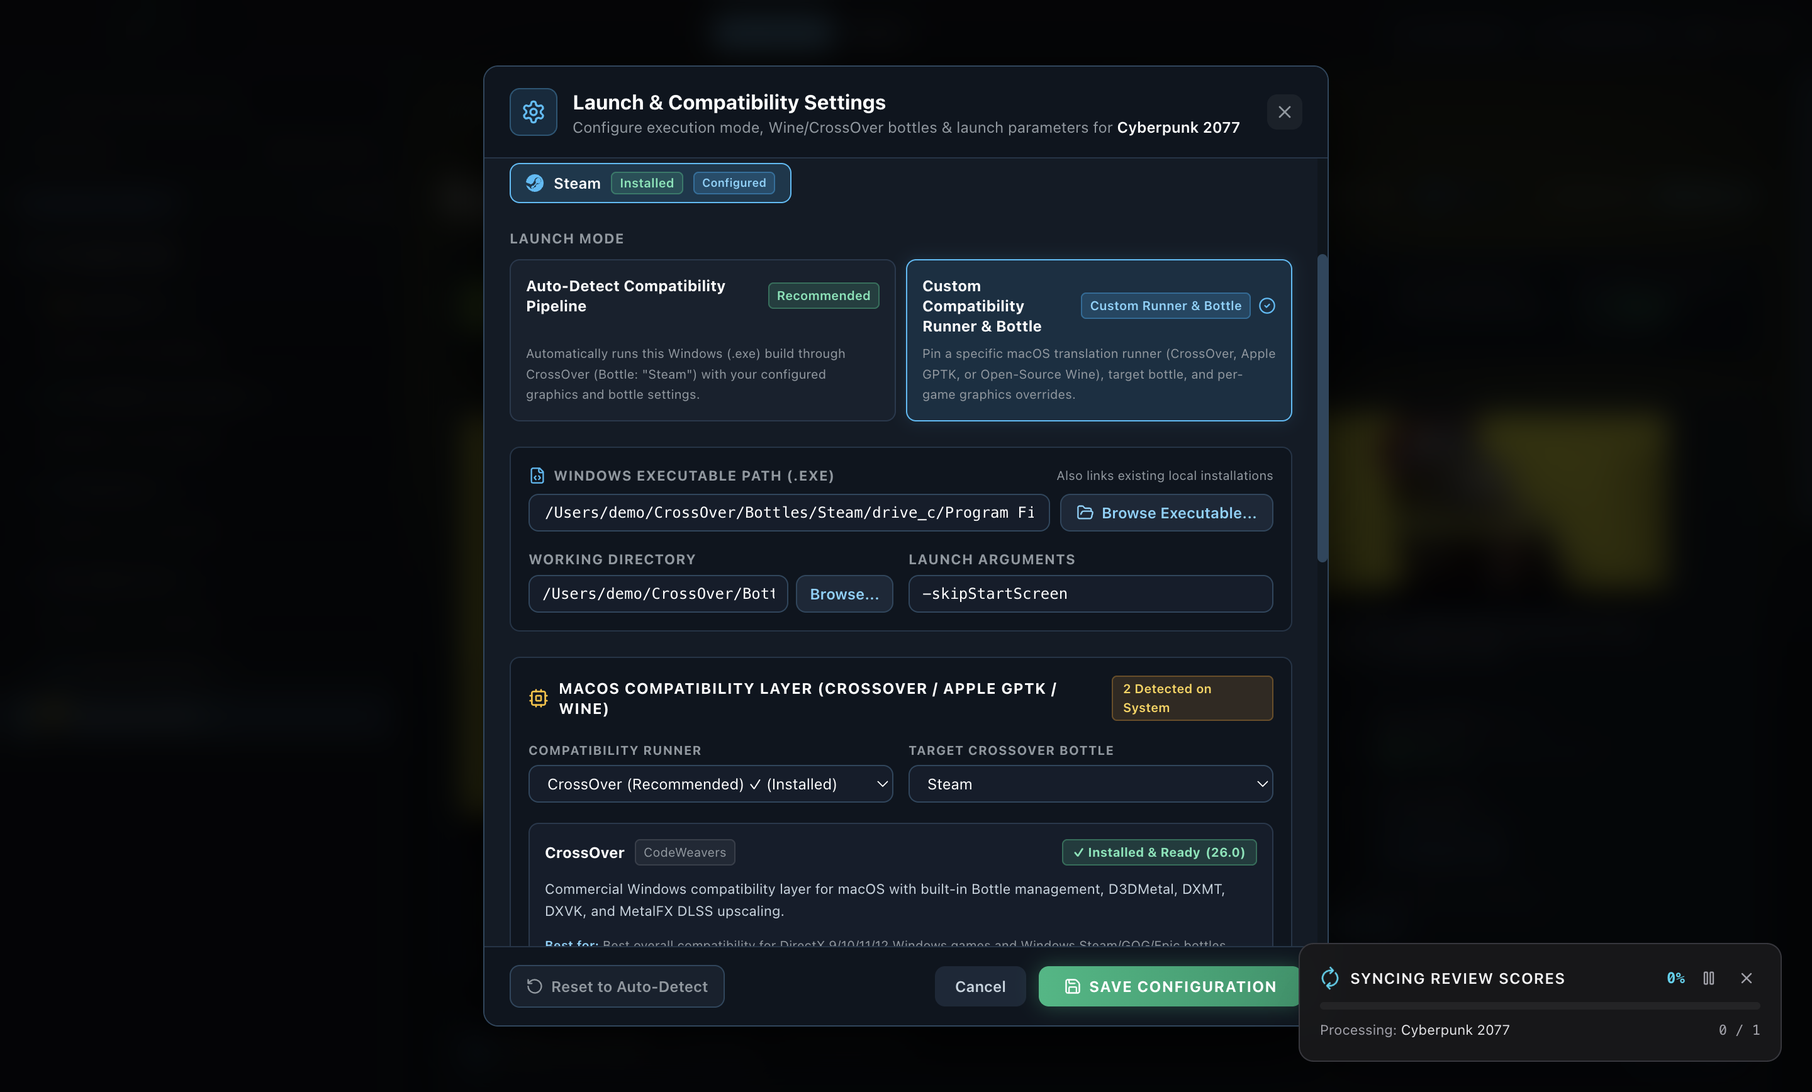
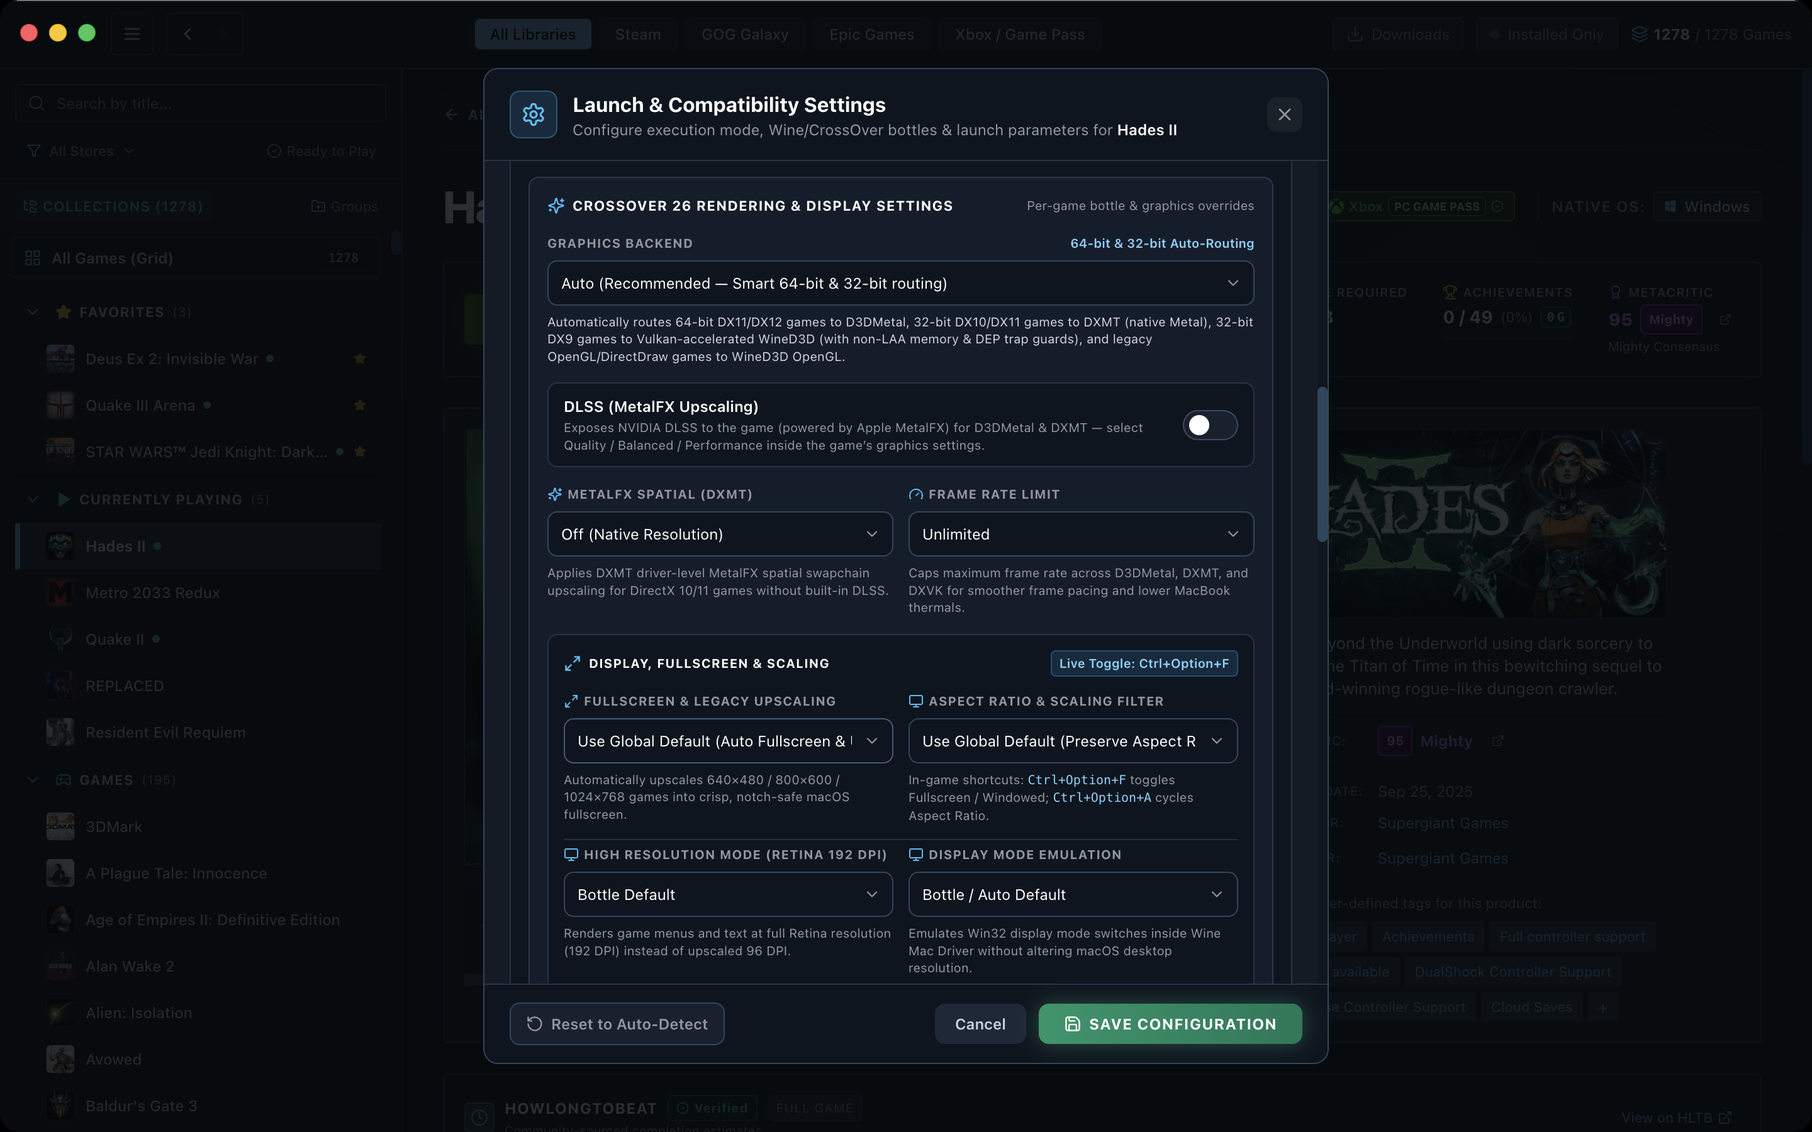
docs: rewrite end-user README for v0.2.7 with sanitized UI screenshots

diff --git a/README.md b/README.md
@@ -1,159 +1,118 @@
 <div align="center">
-  <img src="public/icon.png" alt="One Launcher Logo" width="128" height="128" />
+  <img src="public/icon.png" alt="One Launcher" width="120" height="120" />
 
   # One Launcher
 
-  **Your Unified Dual-OS PC & Mac Game Library — Steam, GOG.com, Epic Games Store, Xbox / PC Game Pass & Custom Games on macOS (Native + Bottled CrossOver / GPTK / Wine) & Windows (Native)**
+  **All of your PC and Mac games in one place — Steam, GOG, Epic Games, Xbox / PC Game Pass, and local installs.**
 
-  [![macOS Apple Silicon](https://img.shields.io/badge/macOS-Apple_Silicon_(arm64)-000000?style=for-the-badge&logo=apple&logoColor=white)](#installation--quick-start)
-  [![Windows x64](https://img.shields.io/badge/Windows-10_%2F_11_(x64)-0078D6?style=for-the-badge&logo=windows&logoColor=white)](#installation--quick-start)
-  [![CrossOver 26 Ready](https://img.shields.io/badge/CrossOver_26-D3DMetal_%7C_DXMT_%7C_DLSS-10B981?style=for-the-badge)](#2-crossover-26--wine-compatibility)
-  [![Storefronts](https://img.shields.io/badge/Storefronts-Steam_%7C_GOG_%7C_Epic_%7C_Xbox_%7C_Custom-3B82F6?style=for-the-badge)](#1-unified-multi-storefront-library)
+  [![Download v0.2.7](https://img.shields.io/badge/Download-v0.2.7-2563EB?style=for-the-badge)](https://github.com/Space-Cadet0/One-Launcher/releases/tag/v0.2.7)
+  [![macOS Apple Silicon](https://img.shields.io/badge/macOS-Apple_Silicon-000000?style=for-the-badge&logo=apple&logoColor=white)](#download--install)
+  [![Windows 10/11](https://img.shields.io/badge/Windows-10_%2F_11-0078D6?style=for-the-badge&logo=windows&logoColor=white)](#download--install)
 </div>
 
 ---
 
-**One Launcher** brings all of your PC and Mac games together into a single, fast, cinema-grade desktop application across **macOS (Native Apple Silicon + Bottled CrossOver 26, Apple Game Porting Toolkit (GPTK), and Open-Source Wine)** and **Windows 10/11 (Native x64)**. Whether your library lives across **Steam**, **GOG.com**, **Epic Games Store**, **Xbox / PC Game Pass**, or custom local folders, One Launcher unifies your collection with automatic artwork, Metacritic & OpenCritic ratings, HowLongToBeat completion times, unified achievement tracking, and one-click launching.
+If your games are split across Steam, GOG, Epic, Xbox / PC Game Pass, and a handful of standalone folders, it gets annoying fast trying to remember where you own something or which launcher actually has it installed.
+
+One Launcher pulls your whole collection into a single desktop app for **macOS (Apple Silicon)** and **Windows 10/11**. It tracks what you own, merges duplicates across stores, downloads artwork, critic scores, and HowLongToBeat times, and lets you launch Mac-native games, Windows games on PC, or Windows games on Mac through CrossOver, Apple Game Porting Toolkit, or Wine.
 
 ---
 
-## Visual Showcase
+## Download & Install
 
-### Unified Library Grid & Custom Collections
-![One Launcher Unified Library Overview](docs/screenshots/library-overview.png)
-*Browse your entire collection across Steam, GOG.com, Epic Games Store, Xbox / PC Game Pass, and custom games in a high-density vertical box-art grid with live Metacritic/OpenCritic badges, multi-storefront ownership indicators, instant punctuation-tolerant search, and custom sidebar collections.*
+Grab the latest installers from the **[v0.2.7 Release page](https://github.com/Space-Cadet0/One-Launcher/releases/tag/v0.2.7)**.
 
-### Rich Game Detail View
-![One Launcher Game Detail View — Media Gallery & Multi-Storefront Switcher](docs/screenshots/game-detail.png)
-*High-resolution screenshot galleries and trailers, playtime, achievement mastery progress, active CrossOver/Wine compatibility pipeline status, and switch between owned storefront editions (`Steam`, `GOG.com`, `Epic Games`, `Xbox`) right next to the **PLAY** button.*
+### macOS (Apple Silicon, macOS 13 or newer)
+1. Download **`One Launcher-0.2.7-arm64.dmg`** from the [v0.2.7 release](https://github.com/Space-Cadet0/One-Launcher/releases/tag/v0.2.7).
+2. Open the disk image and drag **One Launcher** into your **Applications** folder.
+3. Because the app isn't notarized with an Apple Developer subscription yet, macOS Gatekeeper may warn you on first launch. Right-click **One Launcher** in Applications and choose **Open**, or run this in Terminal:
+   ```bash
+   xattr -cr "/Applications/One Launcher.app"
+   ```
 
-![One Launcher Game Detail View — About This Game, HowLongToBeat & Critic Consensus](docs/screenshots/game-detail-about.png)
-*Scroll down on any game page for **HowLongToBeat** completion estimates (Main Story, Main + Sides, Completionist, All Styles), **Metacritic & OpenCritic** review consensus cards, rich HTML **About This Game** descriptions with inline media, **System Requirements**, storefront capability badges, and accurate 3-column **Supported Languages** matrices (`Interface`, `Full Audio`, `Subtitles`).*
+### Windows (Windows 10 / 11, 64-bit)
+- Download and run **`One Launcher Setup 0.2.7.exe`** from the [v0.2.7 release](https://github.com/Space-Cadet0/One-Launcher/releases/tag/v0.2.7).
+- If you ever want a clean removal later, **`One Launcher Full Uninstaller.exe`** is also attached to the same release.
 
-### CrossOver 26 & macOS Compatibility Launch Settings
-![CrossOver 26 and Launch Compatibility Settings](docs/screenshots/crossover-launch-settings.png)
-*Configure per-game and per-storefront launch profiles. Automatically detects Windows `.exe` installations inside CrossOver 26, Apple Game Porting Toolkit (GPTK), or Open-Source Wine bottles and gives you per-game controls for Graphics Backend (`Auto`, `D3DMetal`, `DXMT`, `DXVK`, `WineD3D`), High Resolution Mode (Retina 192 DPI), DLSS (MetalFX Upscaling), MSync / ESync, and Metal / DXVK HUD overlays.*
-
-### 4-Step Fix Match & Metadata Override Studio
-![4-Step Fix Match & Metadata Override Studio](docs/screenshots/match-override-studio.png)
-*Need to manually correct a game or customize a game's artwork? The 4-step Match & Metadata Wizard searches Steam, GOG, Epic Games, and IGDB simultaneously, lets you cherry-pick capsule art, hero banners, and descriptions, and previews your changes live before saving.*
-
-### Custom Collections & 24-Icon Library Organizer
-![Custom Collections and 24-Icon Picker](docs/screenshots/integrations-collections.png)
-*Organize your library into custom shelves and collections with 24 selectable icons, pin your favorites, and manage bulk artwork & metadata across your entire catalog.*
+When you open One Launcher for the first time, a 5-step Setup Wizard walks you through signing in to your store accounts and checking your compatibility runners (on Mac) or system prerequisites (on Windows). You can re-open it anytime from the top-left menu.
 
 ---
 
-## Key Features (End-User Guide)
+## A Look Inside
 
-### 1. Unified Multi-Storefront Library
-Stop juggling multiple launchers to remember where you own or installed a game:
-- **Steam Integration**: Sign in via Steam OpenID or connect your public Steam profile, and automatically scan local `libraryfolders.vdf` & `appmanifest_*.acf` files across internal and external drives—including Steam installs inside CrossOver and Wine bottles.
-- **GOG.com Integration**: Connect via official GOG OAuth to import your cloud library, scan local GOG Galaxy databases, and automatically detect standalone offline GOG installers.
-- **Epic Games Store Integration**: Connect via Epic OAuth (`authorization_code` or seamless browser sign-in) and automatically detect local Epic Games Launcher, Heroic Games Launcher, and Legendary manifests.
-- **Xbox / PC Game Pass Integration**: Sign in via Xbox Live / Microsoft OAuth to sync owned Xbox PC & Game Pass titles, achievements, and playtime—supporting native Windows GDK (`C:\XboxGames` / `MicrosoftGame.config`) launches on Windows 10/11 and bottled GDK execution (`one_xgameruntime_bridge.dll` + `one_gameinput_bridge.dll`) inside CrossOver / GPTK / Wine bottles on macOS.
-- **Custom & Local Games**: Import standalone native macOS `.app` bundles and Windows `.exe` directories with automatic installer/crash-handler filtering and full metadata matching.
-- **Automatic Multi-Storefront Deduplication**: Own the same title across Steam, GOG, Epic, and Xbox? One Launcher merges them into a single unified entry displaying all owned storefront badges, combined playtime, and a per-storefront installation switcher right next to the **PLAY** button.
+### Your whole library on one screen
+![One Launcher library grid showing Steam, GOG, Epic, and Xbox Game Pass games](docs/screenshots/library-overview.png)
+Filter by storefront, readiness, genre, critic score, or release era, and organize your games into custom collections in the sidebar.
 
-### 2. CrossOver 26 & Wine Compatibility
-For Mac gamers running both native Apple Silicon titles and Windows games alongside native Windows PC setups:
-- **Automatic Bottle & `.exe` Discovery**: Scans CrossOver 26 (`~/Library/Application Support/CrossOver/Bottles`), Apple Game Porting Toolkit (GPTK), Open-Source Wine prefixes, Heroic, and custom directories to find installed Windows games automatically.
-- **Smart Storefront-in-Bottle Routing**: If a Windows game is installed via a Windows Steam, GOG Galaxy, Epic Games, or Xbox GDK layout inside a CrossOver bottle, One Launcher automatically routes execution through the bottle's storefront client or direct `.exe` without erroneously triggering native macOS `steam://` or `com.epicgames.launcher://` URL schemes.
-- **Per-Game & Per-Storefront Launch Profiles**: Configure distinct executables, working directories, launch arguments, and compatibility runners for each storefront edition of a game (`Steam`, `GOG.com`, `Epic Games`, `Xbox`, `Custom`).
-- **CrossOver 26 Rendering & Display Controls**:
-  - **Graphics Backend**: Choose `Auto`, `D3DMetal` (Apple GPTK DirectX 11/12), `DXMT` (Metal-based DirectX 11), `DXVK` (Vulkan/MoltenVK), or `WineD3D` (OpenGL).
-  - **High Resolution Mode (Retina 192 DPI)**: Toggle crisp Retina UI and text rendering per bottle.
-  - **Universal Bottled Fullscreen & HiDPI Display Scaling**: Automatically presents legacy 32-bit (`PE32`) and modern 64-bit (`PE32+`) DirectDraw, Direct3D, OpenGL, GDI, SDL, and DOSBox games in centered, aspect-preserved (`4:3`, `16:10`, `16:9`, integer, or stretch) Retina fullscreen across any CrossOver, GPTK, or Wine bottle—with live in-game `Ctrl+Option+F` toggling to `2x` Retina Windowed mode and zero-drift 3D/2D mouse input virtualization.
-  - **DLSS (MetalFX Upscaling)**: Expose NVIDIA DLSS powered by Apple MetalFX for supported D3DMetal & DXMT titles.
-  - **Synchronization & Performance Overlays**: Toggle **MSync**, **ESync**, **Apple Metal HUD** (`MTL_HUD_ENABLED=1`), and **DXVK HUD** (`DXVK_HUD=fps,devinfo`) per game.
+### Game pages with storefront switching
+![Game detail view showing multi-storefront ownership, trailers, and reviews](docs/screenshots/game-detail.png)
+Each game gets its own page with trailers, screenshots, playtime, Metacritic/OpenCritic scores, and HowLongToBeat estimates. If you own the same title in more than one place, One Launcher combines them into a single page and puts a store picker right next to the Play or Install button.
 
-### 3. Rich Metadata, Critic Scores & HowLongToBeat
-Every game in your library is automatically enriched with:
-- **High-Resolution Artwork**: Vertical 2:3 library capsules, widescreen hero headers, HD logos, screenshot galleries, and video trailers.
-- **Metacritic & OpenCritic Scores**: Live critic score badges (`Mighty`, `Strong`, `Fair`, `Weak`) with percentage recommended and review counts, plus one-click sorting by critic rating.
-- **HowLongToBeat Estimates**: Accurate completion times broken down by **Main Story**, **Main + Extras**, and **Completionist** playstyles.
+### Store accounts, Game Pass sync modes, and offline caching
+![Storefront Integrations modal showing connected accounts and Game Pass options](docs/screenshots/storefront-integrations.png)
+Sign in directly to Steam, GOG.com, Epic Games, and Xbox Live using their official sign-in pages—no extra launchers need to stay open in the background. For Xbox / PC Game Pass, you can choose whether to show your full Game Pass catalog, only games you've played or installed, or just permanent purchases.
 
-### 4. Multi Storefront Achievements
-- **Interactive Achievements Modal**: Inspect every unlocked and locked achievement for your games, complete with high-resolution icons, unlock timestamps, and global player rarity percentages synced across Steam, GOG, Epic Games, and Xbox.
-- **Spoiler Protection**: Hidden/secret achievement descriptions are blurred until you click to reveal them.
+### Playing Windows games on Mac
+![Launch and Compatibility Settings modal showing graphics backends, MetalFX DLSS, frame rate limit, and display scaling](docs/screenshots/crossover-launch-settings.png)
+Mac players can tweak CrossOver, CrossOver Preview (`arm64 / FEX`), Apple Game Porting Toolkit, or Wine settings per game: pick D3DMetal or DXMT, turn on MetalFX DLSS upscaling, cap frame rates to keep fans quiet, enable Retina sharpness, and toggle fullscreen or aspect-ratio scaling on the fly with `Ctrl+Option+F` and `Ctrl+Option+A`.
 
-### 5. Custom Collections
-- **24-Icon Custom Collections**: Create unlimited custom groups (e.g., *Favorites*, *Currently Playing*, *RPG Masterpieces*, *Mac Native Gems*, *Sci-Fi & Cyberpunk*, *Completed 100%*) and personalize each shelf with 24 vector icons.
-
-### 6. 4-Step Fix Match & Metadata Override
-If a local game folder has an ambiguous name or you want custom box art:
-1. **Step 1 — Search & Identify**: Search across Steam, GOG, Epic Games, and IGDB simultaneously with punctuation-tolerant matching.
-2. **Step 2 — Artwork Selection**: Pick your preferred vertical cover art, hero banner, and logo from any matched provider or provide a custom image URL/local file.
-3. **Step 3 — Metadata & Details**: Customize the title, developer, publisher, release date, genres, and summary description.
-4. **Step 4 — Live Preview & Save**: Preview exactly how your game card and detail page will look before applying the override.
+### Achievements across stores
+![Achievements modal showing unlocked progress, timestamps, and global rarity](docs/screenshots/game-achievements.png)
+Browse unlocked and locked achievements with global rarity percentages and unlock dates. Descriptions for secret achievements stay blurred until you click them, so you won't accidentally spoil a story beat.
 
 ---
 
-## Installation & Quick Start
+## What It Does
 
-### Option A: Download Pre-Built Desktop App
-1. **macOS (Apple Silicon — macOS 13.0+)**:
-   - Download the latest `One Launcher-<version>-arm64.dmg` from the **Releases** page.
-   - Open the `.dmg` and drag **One Launcher.app** into your `/Applications` folder.
-   - On first launch, if macOS Gatekeeper prompts that the app is from an unidentified developer, right-click **One Launcher.app** -> **Open**, or run:
-     ```bash
-     xattr -cr "/Applications/One Launcher.app"
-     ```
-2. **Windows (Windows 10 / 11 x64)**:
-   - Download and run the latest `One Launcher Setup <version>.exe` installer from the **Releases** page.
+### Connects your storefronts without getting in the way
+One Launcher brings together **Steam**, **GOG.com**, **Epic Games Store**, **Xbox / PC Game Pass**, and **custom local games** (both native `.app` bundles on Mac and Windows `.exe` folders). It automatically scans your drives and compatibility bottles for games you already have installed, filters out uninstallers and crash reporters, and merges duplicate entries when you own the same game on two stores.
 
-### Option B: Build & Run from Source
-Prerequisites: **Node.js 22+**, **npm**, and **Zig 0.13.0** (used by `npm run build:xbox-bridge` when compiling the deterministic Win32 PE64 Xbox GDK runtime & GameInput bridge DLLs from C source; prebuilt SHA-256-verified DLLs can also be verified via `node scripts/build-xbox-bridge.cjs --verify-only`).
+*Note on Xbox Game Pass:* Direct Xbox and PC Game Pass games are supported on both Windows and Mac, including achievements and cloud saves. However, **chained launchers for Xbox Game Pass games (such as EA games launched through the EA App) are not yet implemented.**
+
+### Makes Windows games behave better on Mac
+If you game on Apple Silicon, One Launcher works alongside **CrossOver**, **CrossOver Preview** (both `x86_64` and `arm64 / FEX`), **Apple Game Porting Toolkit**, and **Wine**. It detects your installed runners and bottles, lets you pick the graphics backend (`D3DMetal`, `DXMT`, `DXVK`, or `WineD3D`) per game, exposes MetalFX DLSS where supported, and fixes common fullscreen headaches on older and newer Windows games alike. Live shortcuts let you switch between fullscreen and windowed (`Ctrl+Option+F`) or cycle aspect ratios like 4:3 pillarbox and integer scaling (`Ctrl+Option+A`) while a game is running.
+
+### Keeps downloads, saves, and offline browsing tidy
+You can queue game installs directly from One Launcher, track extraction and verification progress, and let downloads pause automatically the moment you start playing something else. Before and after a session, One Launcher keeps rolling local backups of your saves alongside storefront cloud sync. While you're in a game, In-Game Hibernation frees up artwork and video memory so the launcher stays out of your way, and the Offline Library Vault caches your catalog and covers locally so your library still loads cleanly on a plane or train.
+
+### Fixes messy matches when local folders look weird
+Added a DRM-free game or an old installer whose folder name didn't match right away? Open the 4-step Fix Match wizard to search Steam, GOG, Epic, and IGDB at once, swap the cover art or hero banner, tweak the title or description, and preview the card before saving.
+
+---
+
+## Good to Know (Current Limitations)
+
+- **Chained launchers for Xbox Game Pass games (e.g., EA) are not yet implemented.** Direct Game Pass titles work, while Game Pass games that hand off to a third-party publisher client like the EA App aren't supported yet.
+- Games that require Windows kernel-level anti-cheat (such as Riot Vanguard) cannot run inside macOS compatibility layers and require native Windows.
+
+---
+
+<details>
+<summary>Building from Source (For Developers)</summary>
+
+Requires **Node.js 22+**, **npm**, and **Zig 0.13.0** (for building the Xbox GDK bridge DLLs from C source).
 
 ```bash
-# 1. Clone the repository
 git clone https://github.com/Space-Cadet0/One-Launcher.git
 cd One-Launcher
 
-# 2. Install dependencies
 npm install
-
-# 3. Verify or rebuild native Xbox GDK bridges, display scaler helpers, and macOS helpers
 npm run build:xbox-bridge
 npm run build:display-scaler
 npm run build:macos-helpers   # macOS only
 
-# 4. Start the Vite renderer dev server (and launch the Electron desktop shell in a second terminal)
+# Run renderer + Electron desktop shell in separate terminals
 npm run dev
 npm run desktop
 ```
 
-To package a production desktop installer for your platform:
+To package release installers locally:
 ```bash
-# Build native macOS Apple Silicon (.app in release/mac-arm64/ or full .dmg via dist:mac)
-npm run build:mac
-npm run dist:mac
-
-# Build Windows x64 NSIS installer & standalone uninstaller (.exe in release/)
-npm run build:win
+npm run dist:mac   # macOS arm64 DMG
+npm run build:win  # Windows x64 installer & uninstaller
 ```
 
----
-
-## Quick Start Guide: Setting Up Your Library
-
-### 1. Connect Your Storefronts
-1. Click the **Settings / Integrations** button (or open **Storefront Connections** from the top navigation bar).
-2. **Steam**: Click **Sign in with Steam** (or enter your Steam ID / vanity URL) to sync your owned games, playtime, and achievements. Local Steam libraries—including Steam installs inside CrossOver bottles—are detected automatically.
-3. **GOG.com**: Click **Connect GOG Account** and sign in through the official GOG window to import your GOG library, or let One Launcher scan your local GOG Galaxy database.
-4. **Epic Games**: Click **Connect Epic Games** to sign in with your Epic account, or paste an authorization code if using an external browser.
-5. **Xbox / PC Game Pass**: Click **Connect Xbox Account** to sign in with Microsoft / Xbox Live and sync owned titles, PC Game Pass entitlements, local `XboxGames` installations, and Xbox achievements.
-
-### 2. Import Local Games or CrossOver Bottles
-1. Open **Settings -> Local Folders & Compatibility Bottles**.
-2. Add any directory containing native macOS `.app` bundles, Windows `.exe` games, or CrossOver 26, Apple Game Porting Toolkit (GPTK), or Open-Source Wine bottles.
-3. One Launcher will automatically filter out uninstallers, crash reporters, and redistributables (`UnityCrashHandler64.exe`, `vc_redist.x64.exe`, `DXSETUP.exe`), match your games against Steam/GOG/Epic/IGDB, and populate full artwork and metadata.
-
-### 3. Configure Per-Game Launch & CrossOver 26 Settings
-1. Open any game in your library and click the **Gear (`⚙`) -> Launch & Compatibility Settings** button next to **PLAY**.
-2. If you own or installed the game on multiple storefronts (e.g., Steam, GOG, Epic, or Xbox), select the **Storefront Installation Profile** pill at the top of the modal to configure each installation independently.
-3. Choose **Auto-Detect (Recommended)**, **Direct Executable**, **Custom Compatibility Runner & Bottle (CrossOver / Apple GPTK / Wine)**, or **Storefront Client Protocol**.
-4. For Windows games on macOS, select your target **CrossOver Bottle**, choose your **Graphics Backend** (`D3DMetal`, `DXMT`, `DXVK`, or `WineD3D`), and toggle **High Resolution Mode (Retina 192 DPI)**, **DLSS (MetalFX Upscaling)**, **MSync**, or **Metal HUD**, then click **Save Configuration**.
+</details>
 
 ---
 
